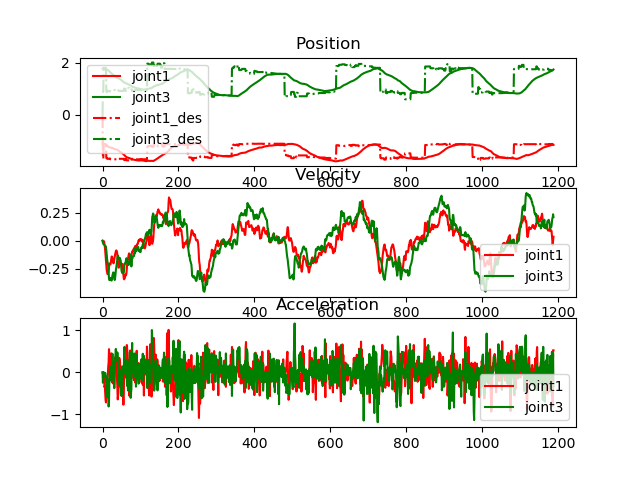
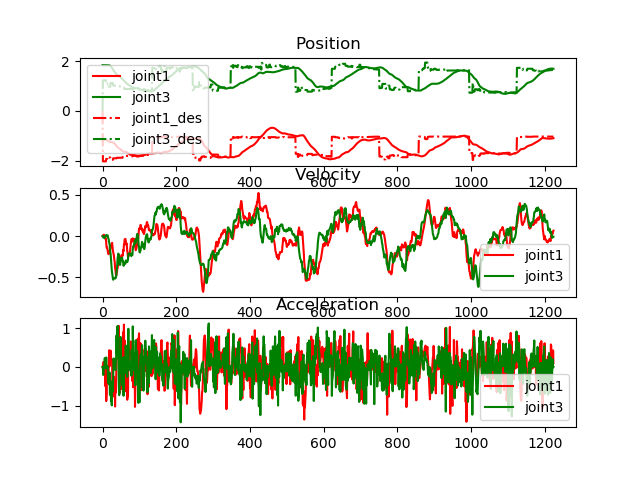
ReacherJnc GetCommand修改！

diff --git a/storm_kit/mpc/model/urdf_kinematic_model.py b/storm_kit/mpc/model/urdf_kinematic_model.py
@@ -148,7 +148,7 @@ class URDFKinematicModel(DynamicsModelBase):
             curr_state[1 * self.n_dofs:2 * self.n_dofs] = 0.0
             curr_state[:self.n_dofs] = act
         return curr_state
-    def tensor_step(self, state: torch.Tensor, act: torch.Tensor, state_seq: torch.Tensor, dt=None) -> torch.Tensor:
+    def tensor_step(self, state: torch.Tensor, act: torch.Tensor, state_seq: torch.Tensor) -> torch.Tensor:
         """
         Args:
         state: [1,N]
@@ -170,56 +170,28 @@ class URDFKinematicModel(DynamicsModelBase):
         state_seq[:,:, -1] = self._traj_tstep
 
         
-        return state_seq
+        return state_seq.to(inp_device)
         
         
     
-    def rollout_open_loop(self, start_state: torch.Tensor, act_seq: torch.Tensor,
-                          dt=None) -> Tuple[torch.Tensor, torch.Tensor, torch.Tensor]:
-        # batch_size, horizon, d_act = act_seq.shape
-        curr_dt = self.dt if dt is None else dt
-        curr_horizon = self.horizon
+    def rollout_open_loop(self, start_state: torch.Tensor, act_seq: torch.Tensor) -> Tuple[torch.Tensor, torch.Tensor, torch.Tensor]:
+
         # get input device:
         inp_device = start_state.device
         start_state = start_state.to(self.device, dtype=self.float_dtype)
         act_seq = act_seq.to(self.device, dtype=self.float_dtype)
         
-        # add start state to prev state buffer:
-        #print(start_state.shape, self.d_state)
-        if(self.prev_state_buffer is None):
-            self.prev_state_buffer = torch.zeros((10, self.d_state), **self.tensor_args)
-            self.prev_state_buffer[:,:] = start_state
-        self.prev_state_buffer = self.prev_state_buffer.roll(-1, dims=0)
-        self.prev_state_buffer[-1,:] = start_state
-
-        
-        #print(self.prev_state_buffer[:,-1])
-        # compute dt w.r.t previous data?
         state_seq = self.state_seq
         ee_pos_seq = self.ee_pos_seq
-        ee_rot_seq = self.ee_rot_seq
-        curr_horizon = self.horizon
         curr_batch_size = self.batch_size
         num_traj_points = self.num_traj_points
         link_pos_seq = self.link_pos_seq
         link_rot_seq = self.link_rot_seq
 
-        
-        
-        curr_state = self.prev_state_buffer[-1:,:self.n_dofs * 3]
- 
-        with profiler.record_function("tensor_step"):
-            # forward step with step matrix:
-            state_seq = self.tensor_step(curr_state, act_seq, state_seq, curr_dt)
-        
-        #print(start_state[:,self.n_dofs*2 : self.n_dofs*3])
+        state_seq = self.tensor_step(start_state, act_seq, state_seq)
 
         shape_tup = (curr_batch_size * num_traj_points, self.n_dofs)
-        # with profiler.record_function("fk + jacobian"):
-        #     ee_pos_seq, ee_rot_seq, lin_jac_seq, ang_jac_seq = self.robot_model.compute_fk_and_jacobian(state_seq[:,:,:self.n_dofs].view(shape_tup),
-        #                                                                                             state_seq[:,:,self.n_dofs:2 * self.n_dofs].view(shape_tup),
-        #                                                                                             link_name=self.ee_link_name)
-        ee_pos_seq, ee_rot_seq = self.robot_model.compute_fk(state_seq[:,:,:self.n_dofs].view(shape_tup),
+        ee_pos_seq  = self.robot_model.compute_fk(state_seq[:,:,:self.n_dofs].view(shape_tup),
                                                              state_seq[:,:,self.n_dofs:2 * self.n_dofs].view(shape_tup),
                                                              link_name=self.ee_link_name)
 
@@ -229,20 +201,11 @@ class URDFKinematicModel(DynamicsModelBase):
             link_pos_seq[:,:,ki,:] = link_pos.view((curr_batch_size, num_traj_points,3))
             link_rot_seq[:,:,ki,:,:] = link_rot.view((curr_batch_size, num_traj_points,3,3))
             
-        
         ee_pos_seq = ee_pos_seq.view((curr_batch_size, num_traj_points, 3))
-        ee_rot_seq = ee_rot_seq.view((curr_batch_size, num_traj_points, 3, 3))
-        # lin_jac_seq = lin_jac_seq.view((curr_batch_size, num_traj_points, 3, self.n_dofs))
-        # ang_jac_seq = ang_jac_seq.view((curr_batch_size, num_traj_points, 3, self.n_dofs))
-
         state_dict = {'state_seq':state_seq.to(inp_device),
                       'ee_pos_seq': ee_pos_seq.to(inp_device),
-                      'ee_rot_seq': ee_rot_seq.to(inp_device),
-                    #   'lin_jac_seq': lin_jac_seq.to(inp_device),
-                    #   'ang_jac_seq': ang_jac_seq.to(inp_device),
                       'link_pos_seq':link_pos_seq.to(inp_device),
-                      'link_rot_seq':link_rot_seq.to(inp_device),
-                      'prev_state_seq':self.prev_state_buffer.to(inp_device)}
+                      'link_rot_seq':link_rot_seq.to(inp_device)}
         return state_dict
 
 

diff --git a/storm_ros/scripts/ReacherJnc.py b/storm_ros/scripts/ReacherJnc.py
@@ -35,19 +35,11 @@ class MPCReacherNode(ReacherEnvBase):
         #STORM Initialization
         # self.policy = ReacherTask(self.mpc_config, self.world_description, self.tensor_args)
         self.policy = ReacherTaskThread(self.mpc_config, self.world_description, self.tensor_args)
-        # goal list control
-        # self.goal_list = np.array([
-        #      [0.45, -0.45, 0.45],
-        #      [0.45,  0.45, 0.45],
-        #      ])
         x,y,z = 0.30 , 0.55 , 0.45
         self.goal_list = [
              [x,y,z],
              [x,-y,z]]
         self.ee_goal_pos = self.goal_list[0]
-        # self.policy.update_params(goal_ee_pos = self.ee_goal_pos,
-        #                           goal_ee_quat = self.ee_goal_quat)  
-
         self.thresh = 0.02 # goal next thresh in Cart
         self.ik_mSolve = ik_mSolve
         self.goal_ee_transform = np.eye(4)
@@ -56,12 +48,10 @@ class MPCReacherNode(ReacherEnvBase):
 
     def control_loop(self):
         rospy.loginfo('[MPCPoseReacher]: Controller running')
-        # start_t = rospy.get_time()
         lap_count = 5 # 跑5轮次
         self.jnq_des = np.zeros(7)
         opt_step_count = 0 
         opt_time_sum = 0 
-        tstep = 0
         self.goal_flagi = -1 # 调控目标点
         start_time = time.time()
         while not rospy.is_shutdown() and \
@@ -71,22 +61,17 @@ class MPCReacherNode(ReacherEnvBase):
                 # TODO: scene_grid update at here ... 
                 # 1. transform pointcloud to world frame 
                 # 2. compute sdf from pointcloud 
-                tstep += self.control_dt
                 # TODO: can it get from topic? call robotmodel to get ee_pos may costly
                 # 逆解获取请求发布 input_queue
                 qinit = self.robot_state['position']
-                self.goal_ee_transform[:3,3] = self.rollout_fn.goal_ee_pos.cpu().numpy()
-                self.goal_ee_transform[:3,:3] = self.rollout_fn.goal_ee_rot.cpu().numpy()
-                self.ik_mSolve.ik_procs[-1].ik(self.goal_ee_transform , qinit , ind = tstep)
-                #get mpc command
-                # TODO: tstep 与 control_dt的关系是什么？ 没有穿透
+                self.goal_ee_transform[:3,3] =  self.rollout_fn.goal_ee_pos.cpu().detach().numpy()
+                self.goal_ee_transform[:3,:3] = self.rollout_fn.goal_ee_rot.cpu().detach().numpy()
+                self.ik_mSolve.ik_procs[-1].ik(self.goal_ee_transform , qinit , ind = opt_step_count)
                 opt_time_last = time.time()
-                command = self.policy.get_command(
-                    tstep, self.robot_state, control_dt=self.control_dt)
+                command = self.policy.get_command(self.robot_state)
                 opt_time_sum += time.time() - opt_time_last
                 self.command = command
-                q_des ,qd_des ,qdd_des = command['position'] ,command['velocity'] , command['acceleration']
-                self.curr_state_tensor = torch.as_tensor(np.hstack((q_des,qd_des,qdd_des)), **self.tensor_args).unsqueeze(0) # "1 x 3*n_dof"
+                q_des ,qd_des = command['position'] ,command['velocity']
                 self.GoalUpdate()
                 #publish mpc command
                 self.mpc_command.header.stamp = rospy.Time.now()
@@ -120,12 +105,7 @@ class MPCReacherNode(ReacherEnvBase):
                       "oneLoop: {}, oneOpt: {}".format(end_time, opt_step_count, self.curr_collision, 
                                                        end_time / opt_step_count * 1000, 
                                                        opt_time_sum / opt_step_count * 1000))
-                                                    #    self.rollout_fn.fk_time_sum / opt_step_count * 1000,
-                                                    #    self.rollout_fn.cost_time_sum / opt_step_count * 1000,
-                                                    #    self.policy.control_process.mpc_time_sum / opt_step_count * 1000))    
-        print(self.policy.control_process.end_time / opt_step_count * 1000)
-        rospy.loginfo("FK time: {},Cost time: {}".format(self.rollout_fn.fk_time_sum / opt_step_count * 1000, self.rollout_fn.cost_time_sum / opt_step_count))
-        # "generate_rollouts_time_sum: {}, FK_time_sum: {}, cost_time_sum: {}, mpc_time_sum: {}
+
         
         self.close()
         self.plot_traj()

diff --git a/storm_kit/mpc/utils/mpc_process_wrapper.py b/storm_kit/mpc/utils/mpc_process_wrapper.py
@@ -89,42 +89,20 @@ class ControlProcess(object):
     
         return curr_state
     
-    def get_command_debug(self, t_step, curr_state, debug=False, control_dt=0.01):
-        """ This function runs the controller in the same process and waits for optimization to  complete before return of a new command
-        Args:
-        t_step: current timestep
-        curr_state: current state to give to mpc
-        debug: flag to enable debug commands [not implemented]
-        control_dt: dt to integrate command to acceleration space from a higher order space(jerk, snap). 
-        """
-        if(self.command is not None):
-            curr_state = self.predict_next_state(t_step, curr_state)
+    def simple_predict_next_state(self, curr_state):
 
-        current_state = np.append(curr_state, t_step + self.mpc_dt)
-        shift_steps = find_first_idx(self.command_tstep, t_step + self.mpc_dt)
-        
-        state_tensor = torch.as_tensor(current_state,**self.controller.tensor_args).unsqueeze(0)
-        start_time = time.time()
-        command = list(self.controller.optimize(state_tensor, shift_steps=shift_steps))
-        command[0] = command[0].cpu().numpy()
-        self.end_time += time.time() - start_time
-        self.command_tstep = self.traj_tstep + t_step
-        self.mpc_dt = t_step - self.prev_mpc_tstep
-        self.prev_mpc_tstep = copy.deepcopy(t_step)
-        # get mean_trajectory and best_trajectory
-        # mean_trajectories = self.controller.trajectories['state_seq'][-1,]
-        # best_trajectories = self.controller.trajectories['state_seq'][0,]
-        # get command data:
-        self.top_idx = self.controller.top_idx
-        self.top_values = self.controller.top_values
-        self.top_trajs = self.controller.top_trajs
-        self.command = command
-       
-        command_buffer, command_tstep_buffer = self.truncate_command(self.command[0], t_step, self.command_tstep)
-        
-        act = self.controller.rollout_fn.dynamics_model.integrate_action_step(command_buffer[0], self.control_dt)
-        # next_command, val, info, best_action
-        return act, command_tstep_buffer, self.command[1], command_buffer
+        curr_state = self.controller.rollout_fn.dynamics_model.get_next_state(curr_state, self.command[0], self.mpc_dt)
+    
+        return curr_state
+    
+    def get_command_debug(self, state_tensor):
+        if(self.command is not None):
+            # 假设在mpc规划的dt时间段内，机械臂继续按照command执行，那么curr_state就要根据command做dt的推演 - 有这种想法比较合理 准！ 所有的参数 这里假定都是torch的
+            state_tensor = self.controller.rollout_fn.dynamics_model.get_next_state(state_tensor, self.command[0], self.control_dt)
+        command = self.controller.optimize(state_tensor.unsqueeze(0), shift_steps=1)
+        self.command = command # mean_action_sequence
+        act = self.command[0].cpu().detach().numpy()
+        return act
 
    
     def get_multimodal_command_debug(self, t_step, curr_state, debug=False, control_dt=0.01):
@@ -226,7 +204,6 @@ class ControlProcess(object):
         f_idx = find_first_idx(command_tstep, trunc_tstep) #- 1
         if(f_idx == -1):
             f_idx = 0
-        #print(f_idx)
         return command[f_idx:], command_tstep[f_idx:]
 
     def update_params(self, **kwargs):

diff --git a/storm_kit/mpc/task/task_base.py b/storm_kit/mpc/task/task_base.py
@@ -24,6 +24,7 @@
 import torch
 import numpy as np
 import time
+import copy
 from ...mpc.utils.state_filter import JointStateFilter
 from ...mpc.utils.mpc_process_wrapper import ControlProcess
 
@@ -32,11 +33,13 @@ class BaseTask():
         self.tensor_args = tensor_args
         self.prev_qdd_des = None
         self.get_command_debug_sum = 0
+
+        self.end_time = 0
     def init_aux(self):
         self.state_filter = JointStateFilter(filter_coeff=self.exp_params['state_filter_coeff'], dt=self.exp_params['control_dt'])
         
         self.command_filter = JointStateFilter(filter_coeff=self.exp_params['cmd_filter_coeff'], dt=self.exp_params['control_dt'])
-        self.control_process = ControlProcess(self.controller)
+        self.control_process = ControlProcess(self.controller, control_dt = self.exp_params['control_dt'] )
         self.n_dofs = self.controller.rollout_fn.dynamics_model.n_dofs
         self.zero_acc = np.zeros(self.n_dofs)
         
@@ -72,32 +75,25 @@ class BaseTask():
         return cmd_des, info
 
 
-    def get_command(self, t_step, curr_state, control_dt):
+    def get_command(self, curr_state):
 
         # predict forward from previous action and previous state:
         #self.state_filter.predict_internal_state(self.prev_qdd_des)
-
-        if(self.state_filter.cmd_joint_state is None):
-            curr_state['velocity'] *= 0.0
         filt_state = self.state_filter.filter_joint_state(curr_state)
-        state_tensor = self._state_to_tensor(filt_state)
-        next_command, val, info, best_action = self.control_process.get_command_debug(t_step, state_tensor.numpy(), control_dt=control_dt)
-        qdd_des = next_command
-        self.prev_qdd_des = qdd_des
-        cmd_des = self.state_filter.integrate_acc(qdd_des)
-
+        curr_state = np.concatenate((filt_state['position'], filt_state['velocity'], filt_state['acceleration']))
+        state_tensor = torch.as_tensor(curr_state,**self.tensor_args)
+        next_command = self.control_process.get_command_debug(state_tensor)    
+        cmd_des = self.state_filter.integrate_acc(next_command) # qdd -> qd -> q
         return cmd_des
 
 
     def _state_to_tensor(self, state):
         state_tensor = np.concatenate((state['position'], state['velocity'], state['acceleration']))
-
-        state_tensor = torch.tensor(state_tensor)
+        state_tensor = torch.as_tensor(state_tensor,**self.tensor_args)
         return state_tensor
+    
     def get_current_error(self, curr_state):
-        state_tensor = self._state_to_tensor(curr_state).to(**self.controller.tensor_args).unsqueeze(0)
-
-        
+        state_tensor = self._state_to_tensor(curr_state).unsqueeze(0)
         ee_error,_ , goal_dist, coll_cost= self.controller.rollout_fn.current_cost(state_tensor)
         ee_error = [x.detach().cpu().item() for x in ee_error]
         goal_dist = [x.detach().cpu().item() for x in goal_dist]

diff --git a/storm_kit/mpc/control/control_base.py b/storm_kit/mpc/control/control_base.py
@@ -233,7 +233,6 @@ class Controller(ABC):
         inp_dtype = state.dtype
         state.to(**self.tensor_args)
 
-        info = dict(rollout_time=0.0, entropy=[])
         # shift distribution to hotstart from previous timestep
         if self.hotstart:
             self._shift(shift_steps)
@@ -270,33 +269,17 @@ class Controller(ABC):
 
                     # self._update_distribution(sensitive_trajectory) 
                     # self.mean_traj_sensi = self.get_mean_trajectory(state)
-
-                    info['rollout_time'] += trajectory['rollout_time']
                     # check if converged
                     if self.check_convergence():
                         break
         # print(prof.key_averages().table(sort_by='self_cpu_time_total'))
 
         self.trajectories = trajectory
-        #calculate best action
-        # curr_action = self._get_next_action(state, mode=self.sample_mode)
         curr_action_seq = self._get_action_seq(mode=self.sample_mode)
-        #calculate optimal value estimate if required
-        # if calc_val:
-        #     trajectories = self.generate_rollouts(state)
-        #     value = self._calc_val(trajectories)
-
-        # # shift distribution to hotstart next timestep
-        # if self.hotstart:
-        #     self._shift()
-        # else:
-        #     self.reset_distribution()
-
-        info['entropy'].append(self.entropy)
 
         self.num_steps += 1
 
-        return curr_action_seq.to(inp_device, dtype=inp_dtype), info
+        return curr_action_seq.to(inp_device, dtype=inp_dtype)
 
 
 

diff --git a/storm_kit/mpc/control/olgaussian_mpc.py b/storm_kit/mpc/control/olgaussian_mpc.py
@@ -175,7 +175,7 @@ class OLGaussianMPC(Controller):
         delta = self.sample_lib.get_samples(sample_shape=shape, seed=base_seed)
         return delta
         
-    def sample_enhance_actions(self, state=None):
+    def sample_enhance_actions(self):
 
         # chatgpt,下面更改代码，通过 不同采样均值（random_shooting的best_action 与 MPPI的mean_action）的方式增加MPPI的探索能力
         # 前面根据MPPI算法的mean_action随机采样出来一系列轨迹：act_seq = self.mean_action.unsqueeze(0) + scaled_delta
@@ -380,7 +380,7 @@ class OLGaussianMPC(Controller):
          """
         # 200 * 20 *2 
         # act_seq = self.sample_actions(state=state) # sample noise from covariance of current control distribution
-        act_seq = self.sample_enhance_actions(state=state)
+        act_seq = self.sample_enhance_actions()
         # act_seq -> trajectory: actions 200*20*2 | states 200*20*7 | costs 200*20
         trajectories = self._rollout_fn(state, act_seq)
         # trajectories['actions'][-5,] == act_seq[295,]

diff --git a/storm_ros/scripts/ReacherBase.py b/storm_ros/scripts/ReacherBase.py
@@ -3,6 +3,7 @@ import os
 import numpy as np
 import torch
 import rospy
+import copy
 from geometry_msgs.msg import PoseStamped 
 from sensor_msgs.msg import JointState
 from std_msgs.msg import Float32
@@ -167,7 +168,7 @@ class ReacherEnvBase():
         # TODO: can it get from topic? call robotmodel to get ee_pos may costly
         # pose_state = self.rollout_fn.get_ee_pose(self.curr_state_tensor)
         # cur_e_pos = np.ravel(pose_state['ee_pos_seq'].cpu().numpy())
-        cur_e_pos = self.rollout_fn.curr_ee_pos.cpu().numpy()
+        cur_e_pos = self.rollout_fn.curr_ee_pos.cpu().detach().numpy()
         # cur_e_quat = np.ravel(pose_state['ee_quat_seq'].cpu().numpy())
         # if current_ee_pose in goal_pose thresh ,update to next goal_pose
         if (np.linalg.norm(np.array(self.ee_goal_pos - cur_e_pos)) < self.thresh):

diff --git a/storm_kit/differentiable_robot_model/differentiable_robot_model.py b/storm_kit/differentiable_robot_model/differentiable_robot_model.py
@@ -554,9 +554,11 @@ class DifferentiableRobotModel(torch.nn.Module):
 
         # print("8", time.time()-st)
         # st = time.time()
-        with profiler.record_function("robot_model/fk"):
-            ee_pos, ee_rot = self.compute_forward_kinematics(q, qd, link_name)
-        return ee_pos.to(inp_device), ee_rot.to(inp_device)
+        # with profiler.record_function("robot_model/fk"):
+        # ee_pos, ee_rot = self.compute_forward_kinematics(q, qd, link_name)
+        ee_pos, _= self.compute_forward_kinematics(q, qd, link_name)
+        # return ee_pos.to(inp_device), ee_rot.to(inp_device)
+        return ee_pos.to(inp_device)
     
     def compute_fk_and_jacobian(
                 self, q: torch.Tensor, qd:torch.Tensor, link_name: str

diff --git a/storm_ros/scripts/runlog.md b/storm_ros/scripts/runlog.md
@@ -44,3 +44,8 @@ whole_time: 29.108530521392822, opt_step_count: 1208, collison_count: 0, oneLoop
 whole_time: 28.93730616569519, opt_step_count: 1200, collison_count: 0, oneLoop: 24.11442180474599, oneOpt: 23.497082193692528
 23.023876150449116
 
+whole_time: 29.04112148284912, opt_step_count: 1214, collison_count: 0, oneLoop: 23.921846361490218, oneOpt: 23.300247294506093
+22.85092057663291
+
+最终的优化结果 ReacherJnc
+whole_time: 29.463523864746094, opt_step_count: 1224, collison_count: 0, oneLoop: 24.071506425446152, oneOpt: 23.67206044446409
